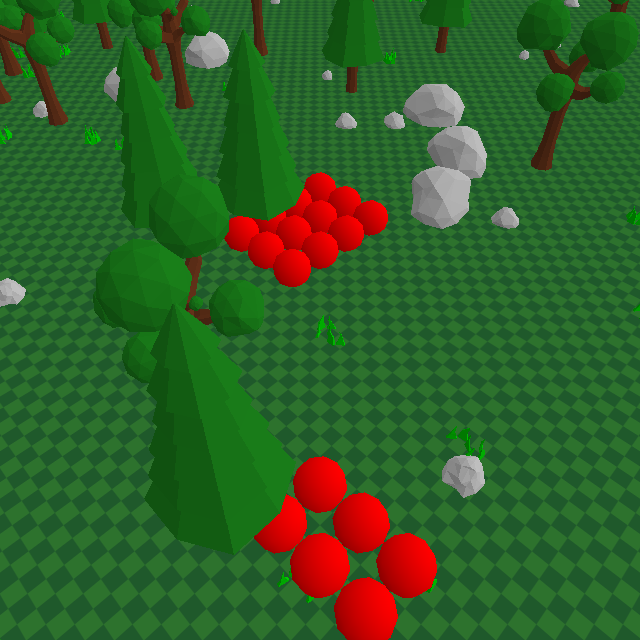
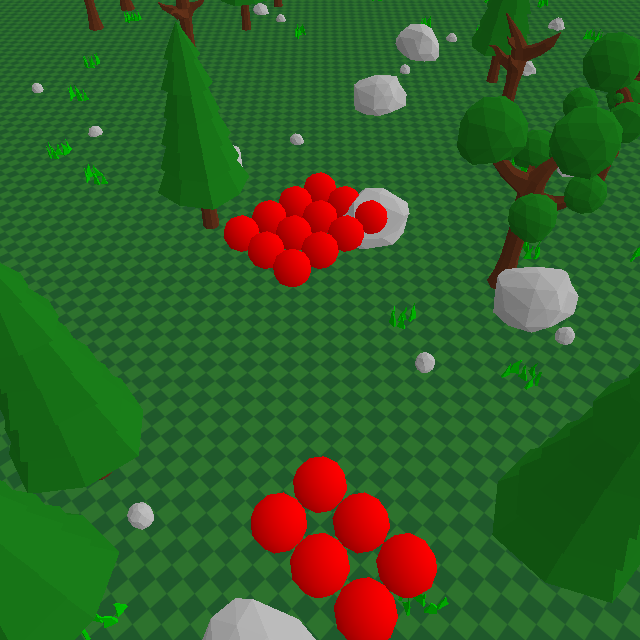
Prep for stereo vision
Aligned the camera variables to be suitable with stereo vision

diff --git a/bullet_test.py b/bullet_test.py
@@ -28,30 +28,47 @@ plane_id = p.loadURDF(os.path.join(data_path, "plane.urdf"))
 p.changeVisualShape(plane_id, -1, rgbaColor=[0.2, 0.5, 0.2, 1])
 
 # camera variables
-cam_height = 30.0      
-cam_target = [0, 0, 0] 
-base_eye_pos = [20, 20, cam_height]
-baseline = 2.0 #2 unit differance
+cam_height = 30.0
+width, height = 640, 640
+fov = 60
+nearVal, farVal = 0.1, 100.0
 
-def get_camera_image(offset_x=0):
-    """Captures an image with an optional horizontal offset."""
+cam_up = np.array([0.0, 0.0, 1.0], dtype=np.float32)
+cam_target = np.array([0.0, 0.0, 0.0], dtype=np.float32)
+base_eye_pos = np.array([20.0, 20.0, cam_height], dtype=np.float32)
+
+baseline_m = 0.06  # meters, assuming 1 bullet unit = 1 meter
+
+def _normalize(v):
+    n = np.linalg.norm(v)
+    if n < 1e-9:
+        return v
+    return v / n
+
+def get_stereo_eyes():
+    forward = _normalize(cam_target - base_eye_pos)   # camera forward direction
+    right = _normalize(np.cross(forward, cam_up))     # camera right direction
+    left_eye = base_eye_pos - right * (baseline_m / 2.0)
+    right_eye = base_eye_pos + right * (baseline_m / 2.0)
+    return left_eye, right_eye
+
+def get_camera_image(eye_pos):
     view_matrix = p.computeViewMatrix(
-        cameraEyePosition=[base_eye_pos[0] + offset_x, base_eye_pos[1], base_eye_pos[2]], 
-        cameraTargetPosition=cam_target,
-        cameraUpVector=[0, 0, 1]
+        cameraEyePosition=eye_pos.tolist(),
+        cameraTargetPosition=cam_target.tolist(),
+        cameraUpVector=cam_up.tolist()
     )
     proj_matrix = p.computeProjectionMatrixFOV(
-        fov=60, aspect=1.0, nearVal=0.1, farVal=100.0
+        fov=fov, aspect=float(width)/float(height), nearVal=nearVal, farVal=farVal
     )
-    
-    width, height = 640, 640 #resolution 
+
     (_, _, px, _, _) = p.getCameraImage(
-        width=width, height=height, 
+        width=width, height=height,
         viewMatrix=view_matrix,
         projectionMatrix=proj_matrix,
         renderer=p.ER_BULLET_HARDWARE_OPENGL
     )
-    
+
     rgb_array = np.reshape(np.array(px, dtype=np.uint8), (height, width, 4))
     return cv2.cvtColor(rgb_array[:, :, :3], cv2.COLOR_RGB2BGR)
 
@@ -97,7 +114,9 @@ place_randomly(["smallrock/smallrock.urdf", "mediumrock/mediumrock.urdf", "bigro
 place_randomly(["bush/bush.urdf"], 90, 2.5)
 
 # camera settings
-p.resetDebugVisualizerCamera(cameraDistance=40, cameraYaw=45, cameraPitch=-35, cameraTargetPosition=cam_target)
+p.resetDebugVisualizerCamera(
+    cameraDistance=40, cameraYaw=45, cameraPitch=-35, cameraTargetPosition=cam_target.tolist()
+)
 
 # --- Main Loop ---
 img_counter = 0
@@ -112,8 +131,9 @@ while True:
     keys = p.getKeyboardEvents()
     
     #both camera captures images
-    img_left = get_camera_image(offset_x=0)
-    img_right = get_camera_image(offset_x=baseline)
+    left_eye, right_eye = get_stereo_eyes()
+    img_left  = get_camera_image(left_eye)
+    img_right = get_camera_image(right_eye)
     
     cv2.imshow("Left Eye (Reference)", img_left)
     cv2.imshow("Right Eye (Shifted)", img_right)